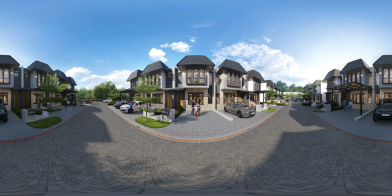
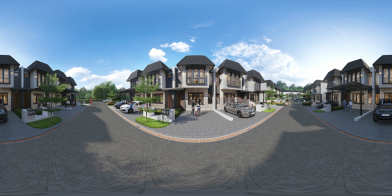
DraftFinal

diff --git a/index.htm b/index.htm
@@ -6,21 +6,21 @@
     <meta name="viewport" id="metaViewport" content="user-scalable=no, initial-scale=1, width=device-width, viewport-fit=cover" data-tdv-general-scale="0.49"/>
     <meta name="apple-mobile-web-app-capable" content="yes"/>
     <meta name="apple-mobile-web-app-status-bar-style" content="default">
-    <link rel="preload" href="locale/en.txt?v=1781701525949" as="fetch" crossorigin="anonymous"/>
-	<link rel="preload" href="script.js?v=1781701525949" as="script"/>
-	<link rel="preload" href="media/panorama_CD8311A4_D526_CA00_41EA_14D9CC884F98_0/r/2/0_0.jpg?v=1781701525949" as="image"/>
-	<link rel="preload" href="media/panorama_CD8311A4_D526_CA00_41EA_14D9CC884F98_0/l/2/0_0.jpg?v=1781701525949" as="image"/>
-	<link rel="preload" href="media/panorama_CD8311A4_D526_CA00_41EA_14D9CC884F98_0/u/2/0_0.jpg?v=1781701525949" as="image"/>
-	<link rel="preload" href="media/panorama_CD8311A4_D526_CA00_41EA_14D9CC884F98_0/d/2/0_0.jpg?v=1781701525949" as="image"/>
-	<link rel="preload" href="media/panorama_CD8311A4_D526_CA00_41EA_14D9CC884F98_0/f/2/0_0.jpg?v=1781701525949" as="image"/>
-	<link rel="preload" href="media/panorama_CD8311A4_D526_CA00_41EA_14D9CC884F98_0/b/2/0_0.jpg?v=1781701525949" as="image"/>
+    <link rel="preload" href="locale/en.txt?v=1781702229569" as="fetch" crossorigin="anonymous"/>
+	<link rel="preload" href="script.js?v=1781702229569" as="script"/>
+	<link rel="preload" href="media/panorama_D9BED53B_D5BF_82DE_41E8_2DB7CAE73479_0/r/2/0_0.jpg?v=1781702229569" as="image"/>
+	<link rel="preload" href="media/panorama_D9BED53B_D5BF_82DE_41E8_2DB7CAE73479_0/l/2/0_0.jpg?v=1781702229569" as="image"/>
+	<link rel="preload" href="media/panorama_D9BED53B_D5BF_82DE_41E8_2DB7CAE73479_0/u/2/0_0.jpg?v=1781702229569" as="image"/>
+	<link rel="preload" href="media/panorama_D9BED53B_D5BF_82DE_41E8_2DB7CAE73479_0/d/2/0_0.jpg?v=1781702229569" as="image"/>
+	<link rel="preload" href="media/panorama_D9BED53B_D5BF_82DE_41E8_2DB7CAE73479_0/f/2/0_0.jpg?v=1781702229569" as="image"/>
+	<link rel="preload" href="media/panorama_D9BED53B_D5BF_82DE_41E8_2DB7CAE73479_0/b/2/0_0.jpg?v=1781702229569" as="image"/>
 	<meta name="description" content="Virtual Tour"/>
 	<meta name="theme-color" content="#FFFFFF"/>
-    <script src="lib/tdvplayer.js?v=1781701525949"></script>
-    <script src="script.js?v=1781701525949"></script>
+    <script src="lib/tdvplayer.js?v=1781702229569"></script>
+    <script src="script.js?v=1781702229569"></script>
     <script type="text/javascript">
         var tour;
-        var devicesUrl = {"general":"script_general.js?v=1781701525949","ipad":"script_general.js?v=1781701525949"};
+        var devicesUrl = {"general":"script_general.js?v=1781702229569","ipad":"script_general.js?v=1781702229569"};
 
         (function()
         {
@@ -63,9 +63,9 @@
 
             var settings = new TDV.PlayerSettings();
             settings.set(TDV.PlayerSettings.CONTAINER, document.getElementById('viewer'));
-            settings.set(TDV.PlayerSettings.WEBVR_POLYFILL_URL, 'lib/WebVRPolyfill.js?v=1781701525949');
-            settings.set(TDV.PlayerSettings.HLS_URL, 'lib/Hls.js?v=1781701525949');
-            settings.set(TDV.PlayerSettings.QUERY_STRING_PARAMETERS, 'v=1781701525949');
+            settings.set(TDV.PlayerSettings.WEBVR_POLYFILL_URL, 'lib/WebVRPolyfill.js?v=1781702229569');
+            settings.set(TDV.PlayerSettings.HLS_URL, 'lib/Hls.js?v=1781702229569');
+            settings.set(TDV.PlayerSettings.QUERY_STRING_PARAMETERS, 'v=1781702229569');
 
             tour = new TDV.Tour(settings, devicesUrl);
             tour.bind(TDV.Tour.EVENT_TOUR_INITIALIZED, onVirtualTourInit);